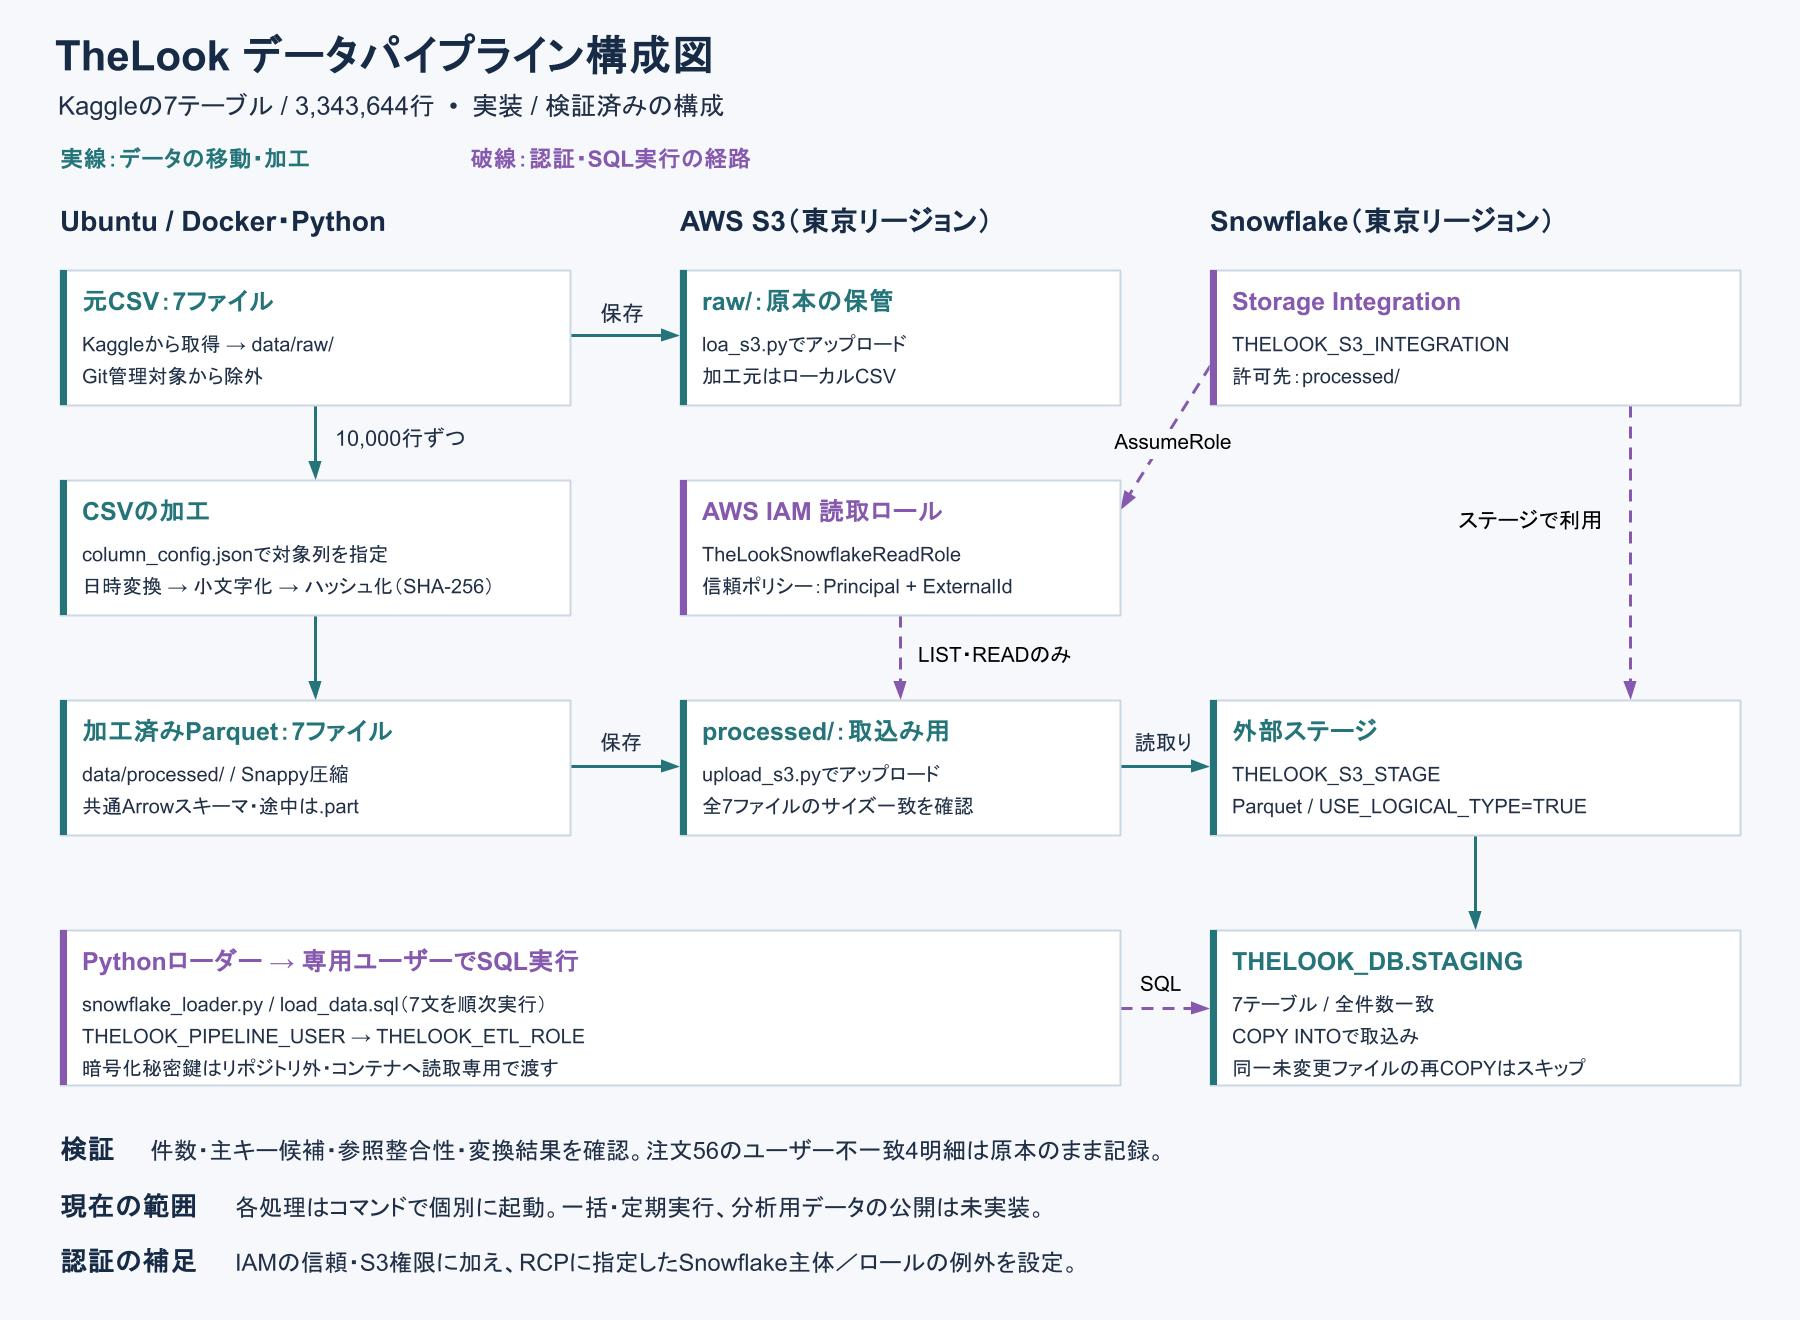
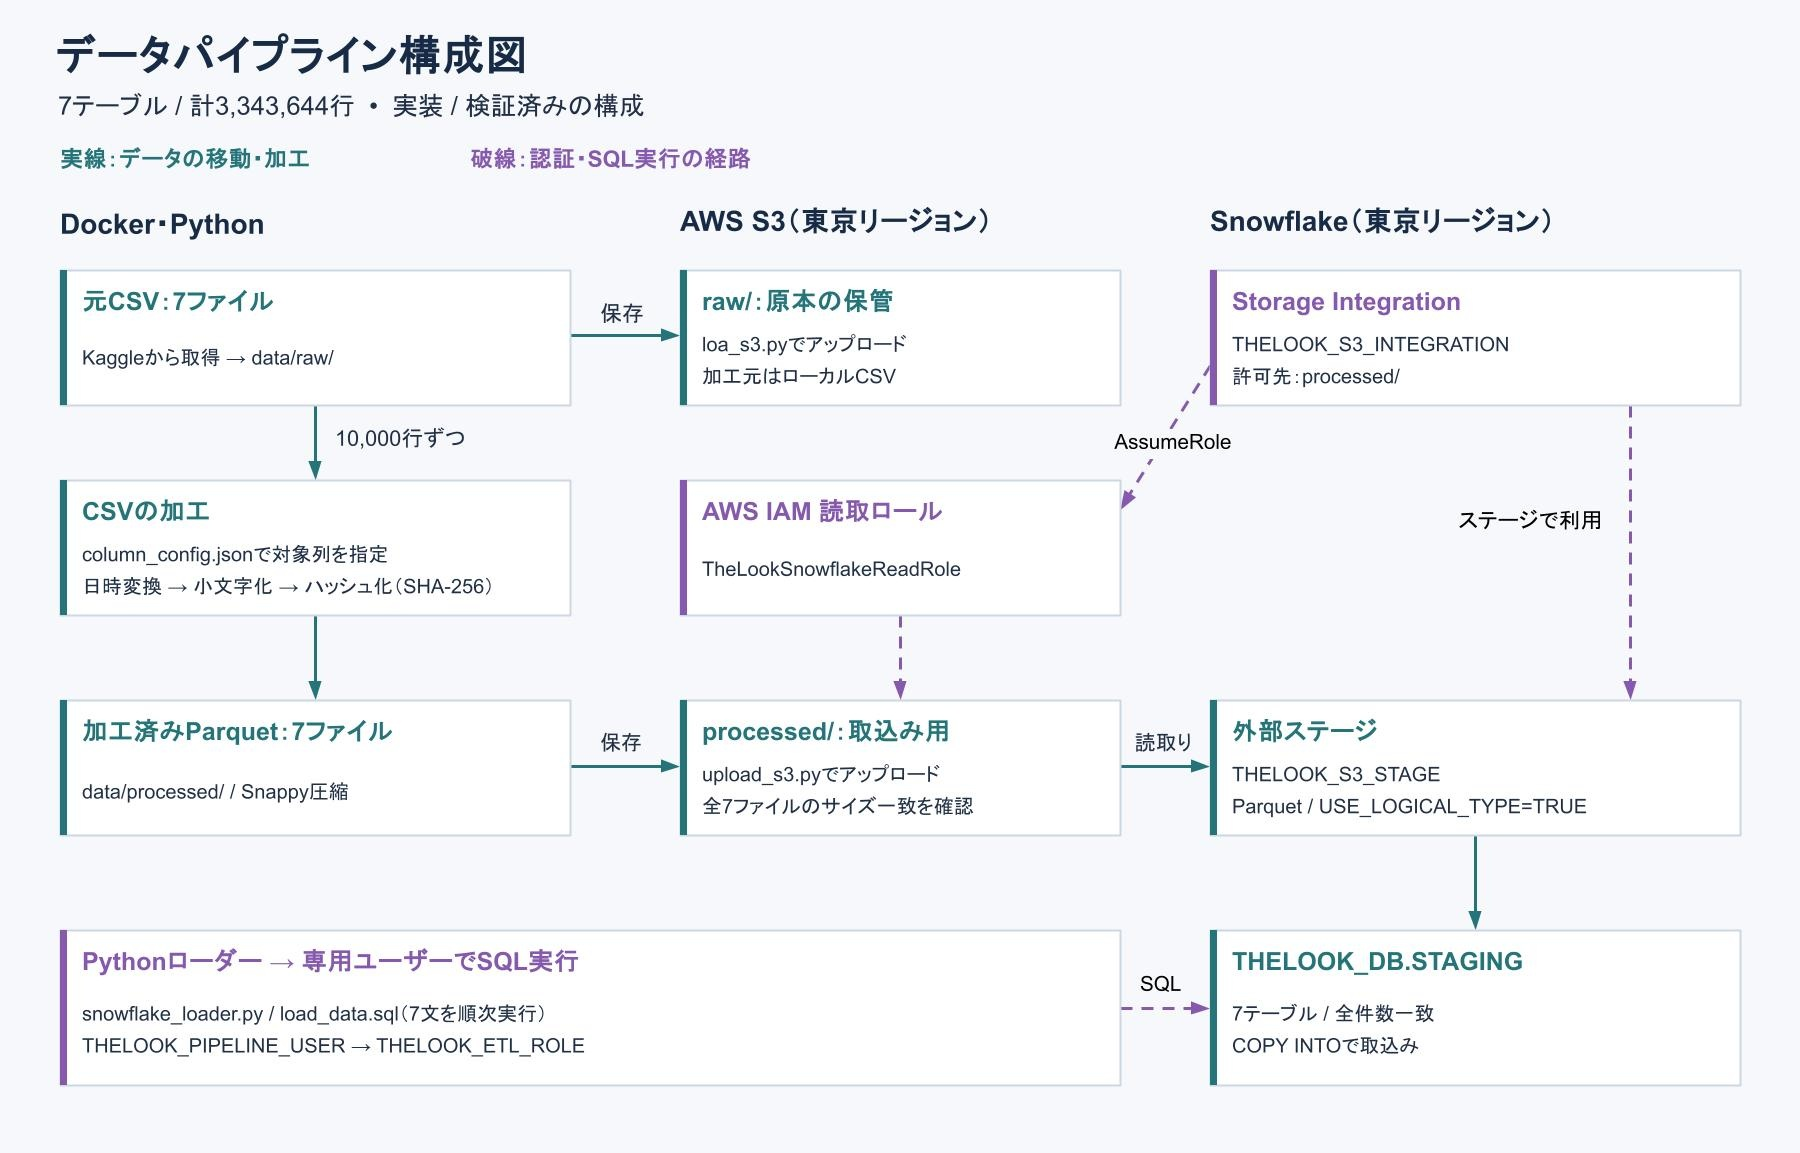
.py update

diff --git a/src/cleansing/cleaning_data.py b/src/cleansing/cleaning_data.py
@@ -20,7 +20,7 @@ def to_datetime(df: pd.DataFrame, target_columns: list):
     for column in target_columns:
         df[column] = pd.to_datetime(
             df[column],
-            format="mixed",
+            format="mixed", #小数秒のあるデータにも対応
             errors="coerce",
             utc=True
         )
